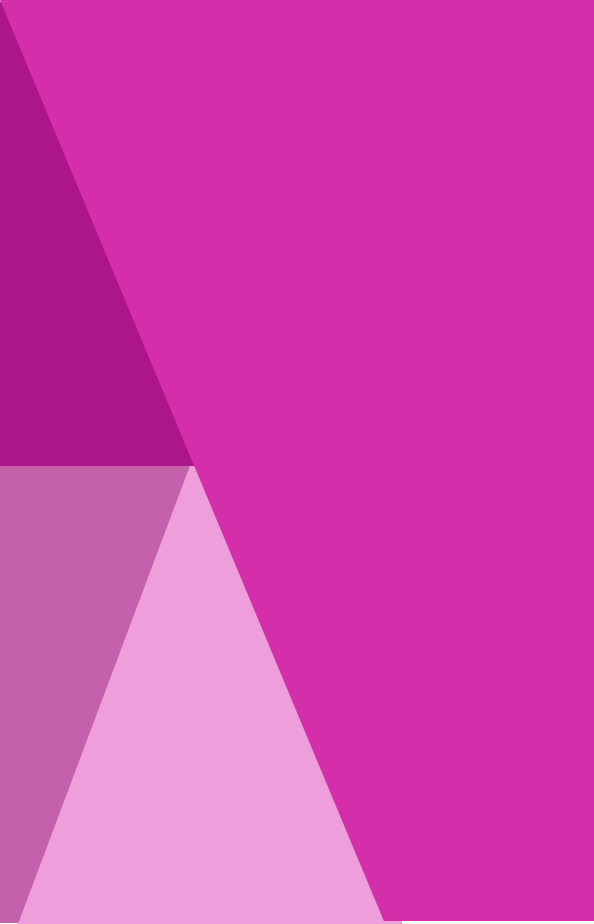
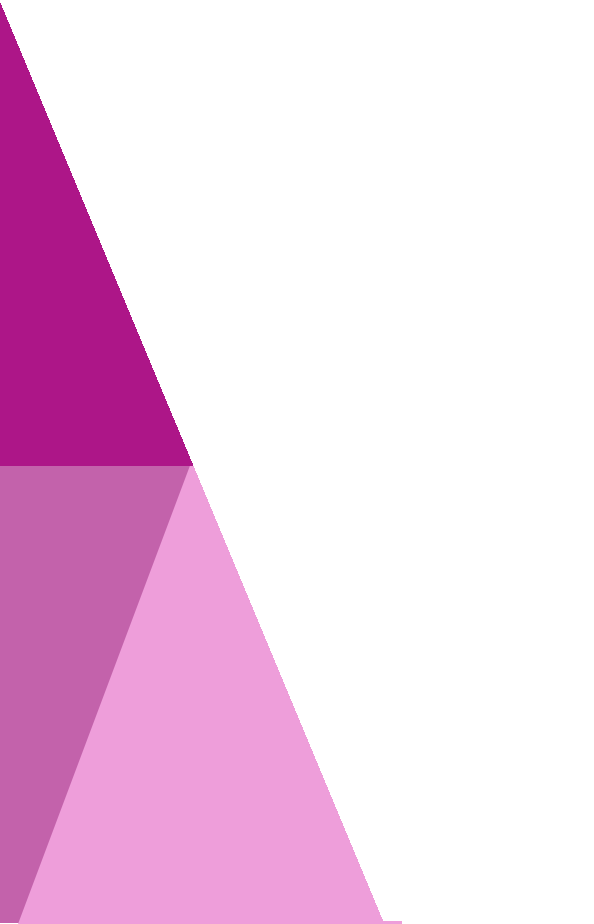
change background color/image and add forgot username/passsword function

diff --git a/www/core/components/login/templates/credentials.html b/www/core/components/login/templates/credentials.html
@@ -12,6 +12,10 @@
           <input type="password" placeholder="{{ 'mm.login.password' | translate }}" ng-model="credentials.password" ng-disabled="isBrowserSSO">
         </label>
         <div>
+          <a href="http://10.66.110.96/login/forgot_password.php">{{ 'mm.login.forgot_password' | translate }}</a> 
+          <!--<span ng-click="forgot_password()">{{ 'mm.login.forgot_password' | translate }}</span>--> <!-- Check credentials.js if want to use this one-->
+        </div>
+        <div>
           <button class="button button-block" ng-click="login()">{{ 'mm.login.loginbutton' | translate }}</button>
         </div>
       </form>

diff --git a/scss/app.scss b/scss/app.scss
@@ -38,10 +38,10 @@ $ionicons-font-path: "../lib/ionic/fonts" !default;
 .connect,
 .credentials,
 .reconnect {
-    background-color: #6e999d;
+    background-color: #df57c5;
     background-image: url($image-path + "/logo.png"), url($image-path + "/bg_2.png");
     background-repeat: no-repeat;
-    background-position: top 20px center, bottom right;
+    background-position: top 20px center, bottom left;
     background-size: 260px auto, 50%;
     padding-top: 65px;
     .list-inset {

diff --git a/www/core/components/login/controllers/credentials.js b/www/core/components/login/controllers/credentials.js
@@ -74,6 +74,10 @@ angular.module('mm.core.login')
         siteChecked = true;
     }
 
+    $scope.forgot_password = function() {
+        $mmUtil.openInBrowser("http://10.66.110.96/login/forgot_password.php");
+    }
+
     $scope.login = function() {
 
         $mmApp.closeKeyboard();
